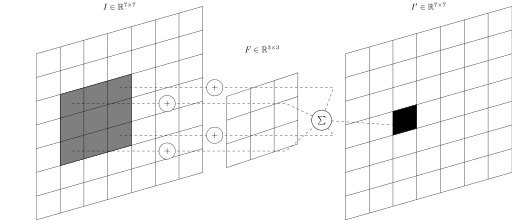
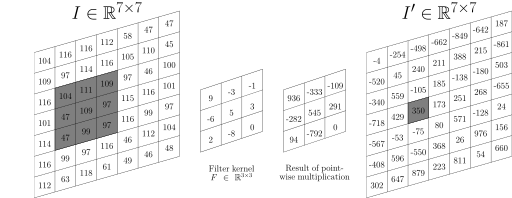
Update filter example

diff --git a/tikz/convolution-linear/convolution-linear.tex b/tikz/convolution-linear/convolution-linear.tex
@@ -9,19 +9,20 @@
 \newcommand{\filtery}{2.2}
 \newcommand{\filteroffset}{1}
 
+\newcommand{\filterxres}{12}
+
 \newcommand{\imagesize}{7}
 \newcommand{\imagex}{0}
 \newcommand{\imagey}{0}
 \newcommand{\imageoffset}{2}
 
-\newcommand{\outx}{13}
+\newcommand{\outx}{16}
 \newcommand{\outy}{0}
 \newcommand{\outoffset}{2}
 
 \newcommand{\percx}{1}
 \newcommand{\percy}{2}
 \begin{tikzpicture}
-% ,circle,thick,draw=black,fill=black,minimum width=4pt,minimum height=4pt
     \tikzstyle{point}=[draw=none,inner sep=0pt]
 
 
@@ -45,7 +46,7 @@
                           \outy+\percy+1+\percx*\outoffset/\imagesize+1*\outoffset/\imagesize+1+1*\outoffset/\imagesize) {};
     \node (o4)[point] at (\outx+\percx+1,
                           \outy+\percy+2+\percx*\outoffset/\imagesize+1*\outoffset/\imagesize) {};
-    \draw[fill=black] (o1.center) -- (o2.center) -- (o3.center) -- (o4.center) -- (o1.center);
+    \draw[fill=gray] (o1.center) -- (o2.center) -- (o3.center) -- (o4.center) -- (o1.center);
 
     % draw image
     \foreach \x in {0,...,\imagesize}
@@ -61,6 +62,13 @@
     \draw (\filterx, \filtery+\x) -- (\filterx+\filtersize, \filtery+\x+\filteroffset);
     }
 
+    % draw filter result
+    \foreach \x in {0,...,\filtersize}
+    {
+    \draw (\filterxres+\x, \filtery+\x*\filteroffset/\filtersize) -- (\filterxres+\x, \filtery+\filtersize+\x*\filteroffset/\filtersize);
+    \draw (\filterxres, \filtery+\x) -- (\filterxres+\filtersize, \filtery+\x+\filteroffset);
+    }
+
     % draw out
     \foreach \x in {0,...,\imagesize}
     {
@@ -68,21 +76,148 @@
     \draw (\outx, \outy+\x) -- (\outx+\imagesize, \outy+\x+\outoffset);
     }
 
-    \node at (\imagex + \imagesize/2,\imagey + \imagesize + 2) {$I \in \mathbb{R}^{\imagesize \times \imagesize}$};
-    \node at (\filterx + \filtersize/2,\filtery + \filtersize + 2) {$F \in \mathbb{R}^{\filtersize \times \filtersize}$};
-    \node at (\outx + \imagesize/2,\outy + \imagesize + 2) {$I' \in \mathbb{R}^{\imagesize \times \imagesize}$};
-    \node[draw,circle] (sumsymb) at (\filterx + \filtersize+1,\filtery + \filtersize/2 + \filteroffset-0.5) {$\sum$};
+    \node at (\imagex + \imagesize/2,\imagey + \imagesize + 2) {\Huge $I \in \mathbb{R}^{\imagesize \times \imagesize}$};
+     \node[text width=4cm, align=center] at (\filterx + \filtersize/2,\filtery + \filtersize - 4) {\large Filter kernel\\$F \in \mathbb{R}^{\filtersize \times \filtersize}$};
+    \node[text width=4cm, align=center] at (\filterx + 4 + \filtersize/2,\filtery + \filtersize - 4) {\large Result of point-wise multiplication};
+    \node at (\outx + \imagesize/2,\outy + \imagesize + 2) {\Huge $I' \in \mathbb{R}^{\imagesize \times \imagesize}$};
 
-    \draw[dashed] (1.5, 2.9) -- (10.5, 2.9) -- (sumsymb.center);
-    \draw[dashed] (1.5, 2.9+\filtersize-1) -- (10.5, 2.9+\filtersize-1) -- (sumsymb.center);
-    \draw[dashed] (1.5+\filtersize-1, 2.9+\filtersize-1+2*\filteroffset/3) -- (10.5+\filtersize-1, 2.9+\filtersize-1+2*\filteroffset/3) -- (sumsymb.center);
-    \draw[dashed] (1.5+\filtersize-1, 2.9+2*\filteroffset/3) -- (10.5+\filtersize-1, 2.9+2*\filteroffset/3) -- (sumsymb.center);
-    \draw[dashed] (sumsymb.center) -- (15, 4);
+    % Start image (left to right, top to bottom)
+    \node[draw=none] at (0.5, 6.6) {\large 104};
+    \node[draw=none] at (1.5, 6.9) {\large 116};
+    \node[draw=none] at (2.5, 7.2) {\large 116};
+    \node[draw=none] at (3.5, 7.5) {\large 112};
+    \node[draw=none] at (4.5, 7.8) {\large  58};
+    \node[draw=none] at (5.5, 8.1) {\large  47};
+    \node[draw=none] at (6.5, 8.4) {\large  47};%%%%%%%%%%%%%%%%%%%%%%%%%%%%%%%
 
-    \node[draw,circle,fill=white] at (5.5, 2.9) {$+$};
-    \node[draw,circle,fill=white] at (5.5+\filtersize-1, 2.9+2*\filteroffset/3) {$+$};
-    \node[draw,circle,fill=white] at (5.5+\filtersize-1, 2.9+2*\filteroffset/3+\filtersize-1) {$+$};
-    \node[draw,circle,fill=white] at (5.5, 2.9+\filtersize-1) {$+$};
-    \node[draw,circle,fill=white] at (sumsymb.center) {$\sum$};
+    \node[draw=none] at (0.5, 5.6) {\large 109};
+    \node[draw=none] at (1.5, 5.9) {\large  97};
+    \node[draw=none] at (2.5, 6.2) {\large 114};
+    \node[draw=none] at (3.5, 6.5) {\large 116};
+    \node[draw=none] at (4.5, 6.8) {\large 105};
+    \node[draw=none] at (5.5, 7.1) {\large 110};
+    \node[draw=none] at (6.5, 7.4) {\large  45};%%%%%%%%%%%%%%%%%%%%%%%%%%%%%%%
+
+    \node[draw=none] at (0.5, 4.6) {\large 116};
+    \node[draw=none] at (1.5, 4.9) {\large 104};
+    \node[draw=none] at (2.5, 5.2) {\large 111};
+    \node[draw=none] at (3.5, 5.5) {\large 109};
+    \node[draw=none] at (4.5, 5.8) {\large  97};
+    \node[draw=none] at (5.5, 6.1) {\large  46};
+    \node[draw=none] at (6.5, 6.4) {\large 100};%%%%%%%%%%%%%%%%%%%%%%%%%%%%%%%
+
+    \node[draw=none] at (0.5, 3.6) {\large 101};
+    \node[draw=none] at (1.5, 3.9) {\large  47};
+    \node[draw=none] at (2.5, 4.2) {\large 109};
+    \node[draw=none] at (3.5, 4.5) {\large  97};
+    \node[draw=none] at (4.5, 4.8) {\large 115};
+    \node[draw=none] at (5.5, 5.1) {\large 116};
+    \node[draw=none] at (6.5, 5.4) {\large 101};%%%%%%%%%%%%%%%%%%%%%%%%%%%%%%%
+
+    \node[draw=none] at (0.5, 2.6) {\large 114};
+    \node[draw=none] at (1.5, 2.9) {\large  47};
+    \node[draw=none] at (2.5, 3.2) {\large  99};
+    \node[draw=none] at (3.5, 3.5) {\large  97};
+    \node[draw=none] at (4.5, 3.8) {\large 116};
+    \node[draw=none] at (5.5, 4.1) {\large  99};
+    \node[draw=none] at (6.5, 4.4) {\large  97};%%%%%%%%%%%%%%%%%%%%%%%%%%%%%%%
+
+    \node[draw=none] at (0.5, 1.6) {\large 116};
+    \node[draw=none] at (1.5, 1.9) {\large  99};
+    \node[draw=none] at (2.5, 2.2) {\large  97};
+    \node[draw=none] at (3.5, 2.5) {\large 116};
+    \node[draw=none] at (4.5, 2.8) {\large  46};
+    \node[draw=none] at (5.5, 3.1) {\large 112};
+    \node[draw=none] at (6.5, 3.4) {\large 104};%%%%%%%%%%%%%%%%%%%%%%%%%%%%%%%
+
+    \node[draw=none] at (0.5, 0.6) {\large 112};
+    \node[draw=none] at (1.5, 0.9) {\large  63};
+    \node[draw=none] at (2.5, 1.2) {\large 118};
+    \node[draw=none] at (3.5, 1.5) {\large  61};
+    \node[draw=none] at (4.5, 1.8) {\large  49};
+    \node[draw=none] at (5.5, 2.1) {\large  46};
+    \node[draw=none] at (6.5, 2.4) {\large  48};%%%%%%%%%%%%%%%%%%%%%%%%%%%%%%%
+
+
+    % Filter
+    \node[draw=none] at ( 8.5, 4.8) {\large  9};
+    \node[draw=none] at ( 9.5, 5.1) {\large -3};
+    \node[draw=none] at (10.5, 5.4) {\large -1};%%%%%%%%%%%%%%%%%%%%%%%%%%%%%%%
+    \node[draw=none] at ( 8.5, 3.8) {\large -6};
+    \node[draw=none] at ( 9.5, 4.1) {\large  5};
+    \node[draw=none] at (10.5, 4.4) {\large  3};%%%%%%%%%%%%%%%%%%%%%%%%%%%%%%%
+    \node[draw=none] at ( 8.5, 2.8) {\large  2};
+    \node[draw=none] at ( 9.5, 3.1) {\large -8};
+    \node[draw=none] at (10.5, 3.4) {\large  0};%%%%%%%%%%%%%%%%%%%%%%%%%%%%%%%
+
+
+    % Result
+    \node[draw=none] at (12.5, 4.8) {\large  936};
+    \node[draw=none] at (13.5, 5.1) {\large -333};
+    \node[draw=none] at (14.5, 5.4) {\large -109};%%%%%%%%%%%%%%%%%%%%%%%%%%%%%
+    \node[draw=none] at (12.5, 3.8) {\large -282};
+    \node[draw=none] at (13.5, 4.1) {\large  545};
+    \node[draw=none] at (14.5, 4.4) {\large  291};%%%%%%%%%%%%%%%%%%%%%%%%%%%%%
+    \node[draw=none] at (12.5, 2.8) {\large   94};
+    \node[draw=none] at (13.5, 3.1) {\large -792};
+    \node[draw=none] at (14.5, 3.4) {\large  0};%%%%%%%%%%%%%%%%%%%%%%%%%%%%%%%
+
+    % Result image (left to right, top to bottom)
+    % [[  -4 -254 -498 -662 -849 -642 -187]
+    \node[draw=none] at (16.5, 6.6) {\large -4};
+    \node[draw=none] at (17.5, 6.9) {\large -254};
+    \node[draw=none] at (18.5, 7.2) {\large -498};
+    \node[draw=none] at (19.5, 7.5) {\large -662};
+    \node[draw=none] at (20.5, 7.8) {\large -849};
+    \node[draw=none] at (21.5, 8.1) {\large -642};
+    \node[draw=none] at (22.5, 8.4) {\large 187};%%%%%%%%%%%%%%%%%%%%%%%%%%%%%%%
+    %  [-520   45  240  211  388  215 -861]
+    \node[draw=none] at (16.5, 5.6) {\large-520};
+    \node[draw=none] at (17.5, 5.9) {\large  45};
+    \node[draw=none] at (18.5, 6.2) {\large 240};
+    \node[draw=none] at (19.5, 6.5) {\large 211};
+    \node[draw=none] at (20.5, 6.8) {\large 388};
+    \node[draw=none] at (21.5, 7.1) {\large 215};
+    \node[draw=none] at (22.5, 7.4) {\large-861};%%%%%%%%%%%%%%%%%%%%%%%%%%%%%%%
+    %  [-340  559 -105  185 -138 -180  503]
+    \node[draw=none] at (16.5, 4.6) {\large -340};
+    \node[draw=none] at (17.5, 4.9) {\large  559};
+    \node[draw=none] at (18.5, 5.2) {\large -105};
+    \node[draw=none] at (19.5, 5.5) {\large  185};
+    \node[draw=none] at (20.5, 5.8) {\large -138};
+    \node[draw=none] at (21.5, 6.1) {\large -180};
+    \node[draw=none] at (22.5, 6.4) {\large  503};%%%%%%%%%%%%%%%%%%%%%%%%%%%%%%%
+    %  [-718  429  350  173  251  268 -655]
+    \node[draw=none] at (16.5, 3.6) {\large -718};
+    \node[draw=none] at (17.5, 3.9) {\large  429};
+    \node[draw=none] at (18.5, 4.2) {\large  350};
+    \node[draw=none] at (19.5, 4.5) {\large  173};
+    \node[draw=none] at (20.5, 4.8) {\large  251};
+    \node[draw=none] at (21.5, 5.1) {\large  268};
+    \node[draw=none] at (22.5, 5.4) {\large -655};%%%%%%%%%%%%%%%%%%%%%%%%%%%%%%%
+    %  [-567  -53  -75   80  571 -128   24]
+    \node[draw=none] at (16.5, 2.6) {\large -567};
+    \node[draw=none] at (17.5, 2.9) {\large  -53};
+    \node[draw=none] at (18.5, 3.2) {\large  -75};
+    \node[draw=none] at (19.5, 3.5) {\large   80};
+    \node[draw=none] at (20.5, 3.8) {\large  571};
+    \node[draw=none] at (21.5, 4.1) {\large -128};
+    \node[draw=none] at (22.5, 4.4) {\large   24};%%%%%%%%%%%%%%%%%%%%%%%%%%%%%%%
+    %  [-408  596 -550  368   26  976  156]
+    \node[draw=none] at (16.5, 1.6) {\large -408};
+    \node[draw=none] at (17.5, 1.9) {\large  596};
+    \node[draw=none] at (18.5, 2.2) {\large -550};
+    \node[draw=none] at (19.5, 2.5) {\large  368};
+    \node[draw=none] at (20.5, 2.8) {\large   26};
+    \node[draw=none] at (21.5, 3.1) {\large  976};
+    \node[draw=none] at (22.5, 3.4) {\large  156};%%%%%%%%%%%%%%%%%%%%%%%%%%%%%%%
+    %  [ 302  647  879  223  811   54  660]]
+    \node[draw=none] at (16.5, 0.6) {\large 302};
+    \node[draw=none] at (17.5, 0.9) {\large 647};
+    \node[draw=none] at (18.5, 1.2) {\large 879};
+    \node[draw=none] at (19.5, 1.5) {\large 223};
+    \node[draw=none] at (20.5, 1.8) {\large 811};
+    \node[draw=none] at (21.5, 2.1) {\large  54};
+    \node[draw=none] at (22.5, 2.4) {\large 660};%%%%%%%%%%%%%%%%%%%%%%%%%%%%%%%
 \end{tikzpicture}
 \end{document}

diff --git a/tikz/convolution-linear/filter.py b/tikz/convolution-linear/filter.py
@@ -1,0 +1,20 @@
+#!/usr/bin/env python
+
+import scipy.signal
+import numpy as np
+
+image = [[104, 116, 116, 112, 58, 47, 47],
+         [109, 97, 114, 116, 105, 110, 45],
+         [116, 104, 111, 109, 97, 46, 100],
+         [101, 47, 109, 97, 115, 116, 101],
+         [114, 47, 99, 97, 116, 99, 97],
+         [116, 99, 97, 116, 46, 112, 104],
+         [112, 63, 118, 61, 49, 46, 48]]
+
+filter_kernel = [[9, -3, -1],
+                 [-6, 5, 3],
+                 [2, -8, 0]]
+filter_kernel = np.array(filter_kernel)
+res = scipy.signal.convolve2d(image, filter_kernel[::-1, ::-1],
+                              mode='same', boundary='fill', fillvalue=0)
+print(res)
